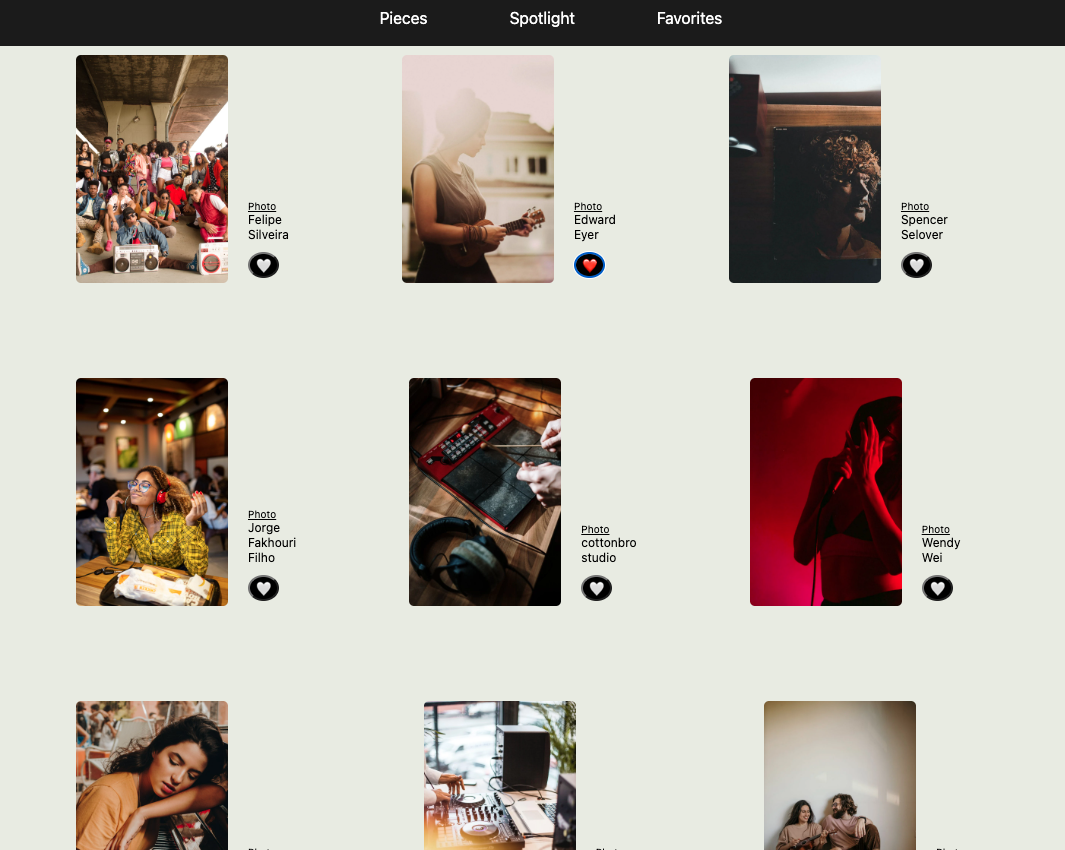
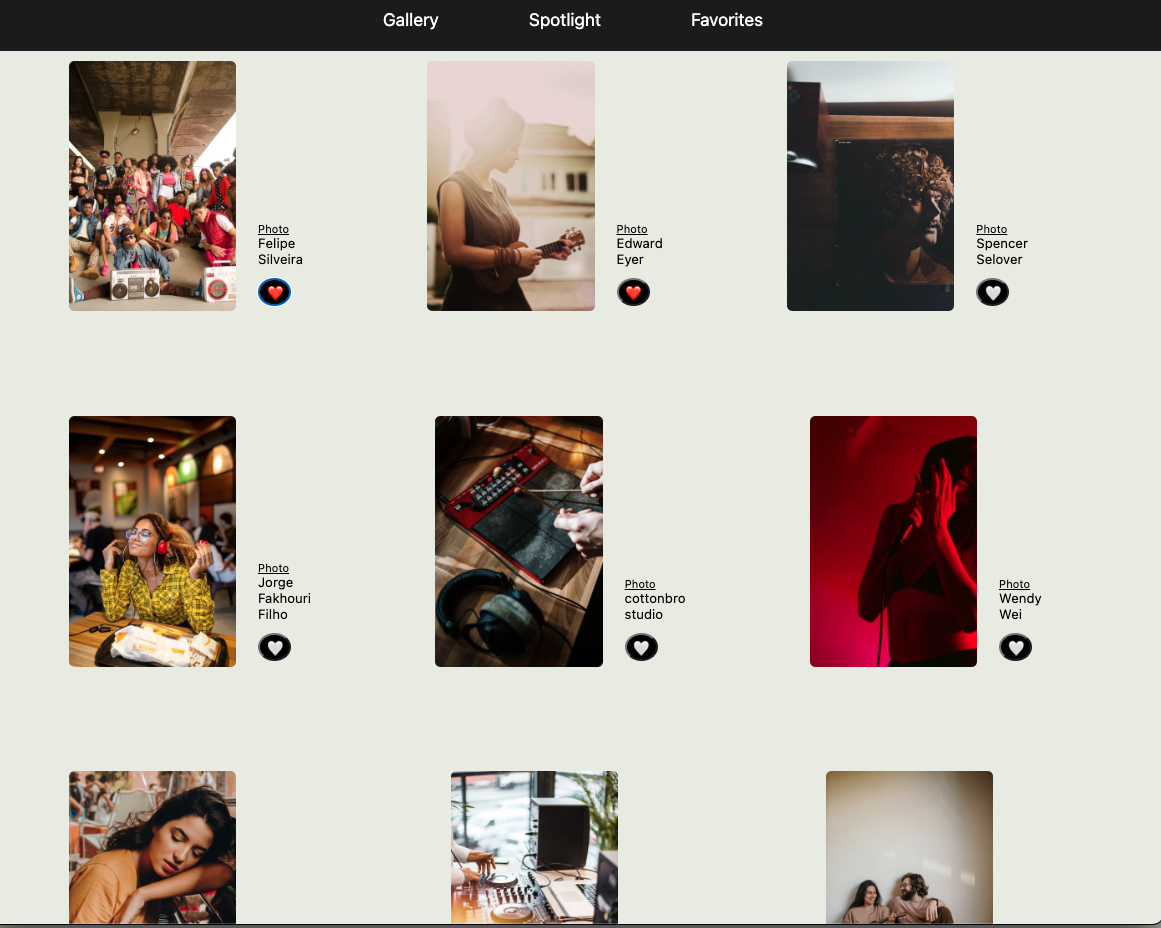
add audioquizapp

diff --git a/index.html b/index.html
@@ -184,32 +184,32 @@
                     <img src="images/musicartgallery.png" alt="Project" class="grid-img">
                 </div>
 
-
-
                 <div class="project">
                     <section class="project-info">
 
                         <br><br>
-                        <h3 class="third-heading">Utility Plugin</h3>
-                        <p class="description">Gain/Pan/Filter
-                            <br>
-                        </p> <a class="playButton" href="#" onclick="toggleUtility();">
-                            <h3>►</h3>
-                        </a> <br><br><br>
+                        <h3 class="third-heading">Quiz App</h3>
+                        <p class="description">Audio quiz app in the browser. Answer audio related questions or create
+                            your own quiz.</p> <a href="https://quiz-app-wictorsson.vercel.app/" target="_blank">Visit
+                            in browser</a>
+                        <br><br> <br><br>
 
                         <!-- <img width="15" height="15"
                             src="https://upload.wikimedia.org/wikipedia/commons/a/ae/Github-desktop-logo-symbol.svg"
-                            alt=""> <a href="https://github.com/wictorsson/utilityplugin" class="link-item"
+                            alt=""> <a href=" https://github.com/wictorsson/quiz-app" class="link-item"
                             target="_blank">GitHub</a> -->
 
-                        <ul class="technologies">
-                            <li class="technology">C++</li>
-                            <li class="technology">Juce</li>
 
+                        <ul class="technologies">
+                            <li class="technology">HTML</li>
+                            <li class="technology">CSS</li>
+                            <li class="technology">JAVASCRIPT</li>
                         </ul>
                     </section>
-                    <img src="images/utility.png" alt="Project" class="grid-img">
+                    <img src="images/appquizbright.png" alt="Project" class="grid-img">
                 </div>
+
+
                 <div class="project">
                     <section class="project-info">
 
@@ -292,25 +292,25 @@
                     <section class="project-info">
 
                         <br><br>
-                        <h3 class="third-heading">Quiz App</h3>
-                        <p class="description">Audio quiz app in the browser. Answer audio related questions or create
-                            your own quiz.</p><a class="playButton" href="#" onclick="toggleAppQuiz();">
+                        <h3 class="third-heading">Utility Plugin</h3>
+                        <p class="description">Gain/Pan/Filter
+                            <br>
+                        </p> <a class="playButton" href="#" onclick="toggleUtility();">
                             <h3>►</h3>
-                        </a><br><br>
+                        </a> <br><br><br>
 
                         <!-- <img width="15" height="15"
                             src="https://upload.wikimedia.org/wikipedia/commons/a/ae/Github-desktop-logo-symbol.svg"
-                            alt=""> <a href=" https://github.com/wictorsson/quiz-app" class="link-item"
+                            alt=""> <a href="https://github.com/wictorsson/utilityplugin" class="link-item"
                             target="_blank">GitHub</a> -->
 
-
                         <ul class="technologies">
-                            <li class="technology">HTML</li>
-                            <li class="technology">CSS</li>
-                            <li class="technology">JAVASCRIPT</li>
+                            <li class="technology">C++</li>
+                            <li class="technology">Juce</li>
+
                         </ul>
                     </section>
-                    <img src="images/appquizbright.png" alt="Project" class="grid-img">
+                    <img src="images/utility.png" alt="Project" class="grid-img">
                 </div>
 
                 <!-- <div class="project">

diff --git a/script.js b/script.js
@@ -240,8 +240,8 @@ filtersEl.addEventListener("click", (e) => {
     projectEl5.style.transform = "scale(0)";
     projectEl6.style.opacity = "1";
     projectEl6.style.transform = "translate(-323px, -323px)";
-    projectEl7.style.opacity = "0";
-    projectEl7.style.transform = "scale(0)";
+    projectEl7.style.opacity = "1";
+    projectEl7.style.transform = "translate(646px, -646px)";
     projectEl8.style.opacity = "0";
     projectEl8.style.transform = "scale(0)";
     projectEl9.style.opacity = "0";
@@ -250,8 +250,8 @@ filtersEl.addEventListener("click", (e) => {
     projectEl10.style.transform = "scale(0)";
     projectEl11.style.opacity = "0";
     projectEl11.style.transform = "scale(0)";
-    projectEl12.style.transform = "translate(0px, -970px)";
-    projectEl12.style.opacity = "1";
+    projectEl12.style.transform = "scale(0)";
+    projectEl12.style.opacity = "0";
   } else if (filterText === "Desktop Apps") {
     projectEl1.style.opacity = "0";
     projectEl1.style.transform = "scale(0)";
@@ -265,8 +265,8 @@ filtersEl.addEventListener("click", (e) => {
     projectEl5.style.transform = "scale(1)";
     projectEl6.style.opacity = "0";
     projectEl6.style.transform = "scale(0)";
-    projectEl7.style.opacity = "1";
-    projectEl7.style.transform = "translate(0, -323px)";
+    projectEl7.style.opacity = "0";
+    projectEl7.style.transform = "scale(0)";
     projectEl8.style.opacity = "1";
     projectEl8.style.transform = "scale(1)";
     projectEl9.style.opacity = "1";
@@ -274,8 +274,8 @@ filtersEl.addEventListener("click", (e) => {
     projectEl10.style.opacity = "1";
     projectEl10.style.transform = "translate(0, -323px)";
     projectEl11.style.opacity = "0";
-    projectEl11.style.transform = "translate(323, -323px)";
-    projectEl12.style.opacity = "0";
-    projectEl12.style.transform = "scale(0)";
+    projectEl11.style.transform = "scale(0)";
+    projectEl12.style.opacity = "1";
+    projectEl12.style.transform = "translate(-646px, -646px)";
   }
 });
